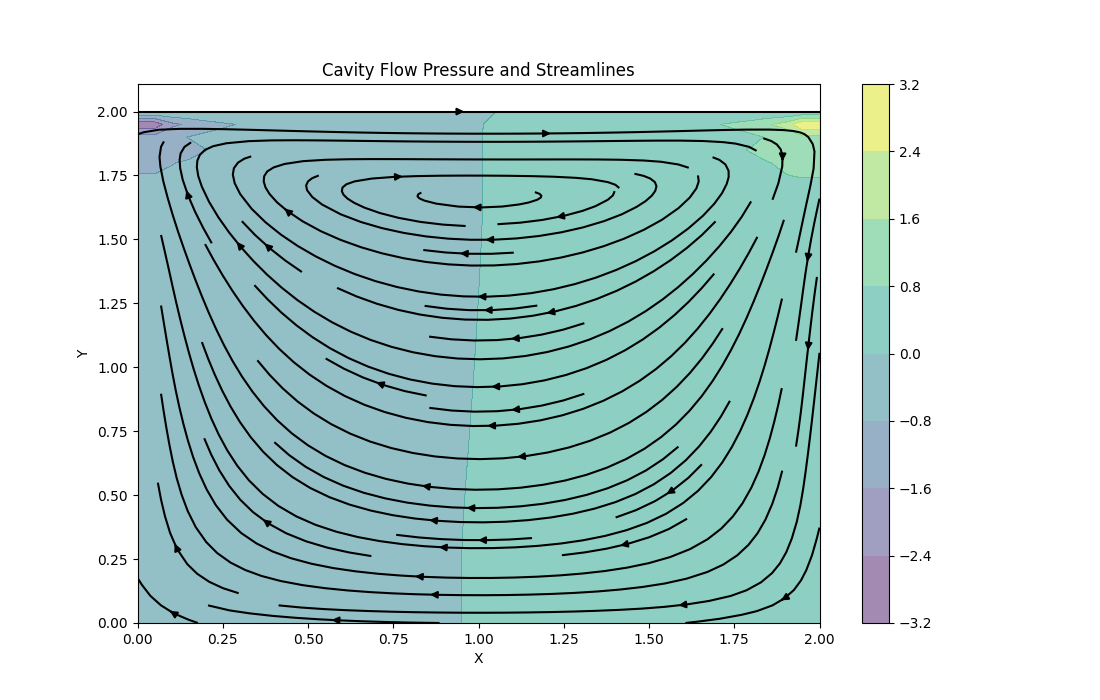
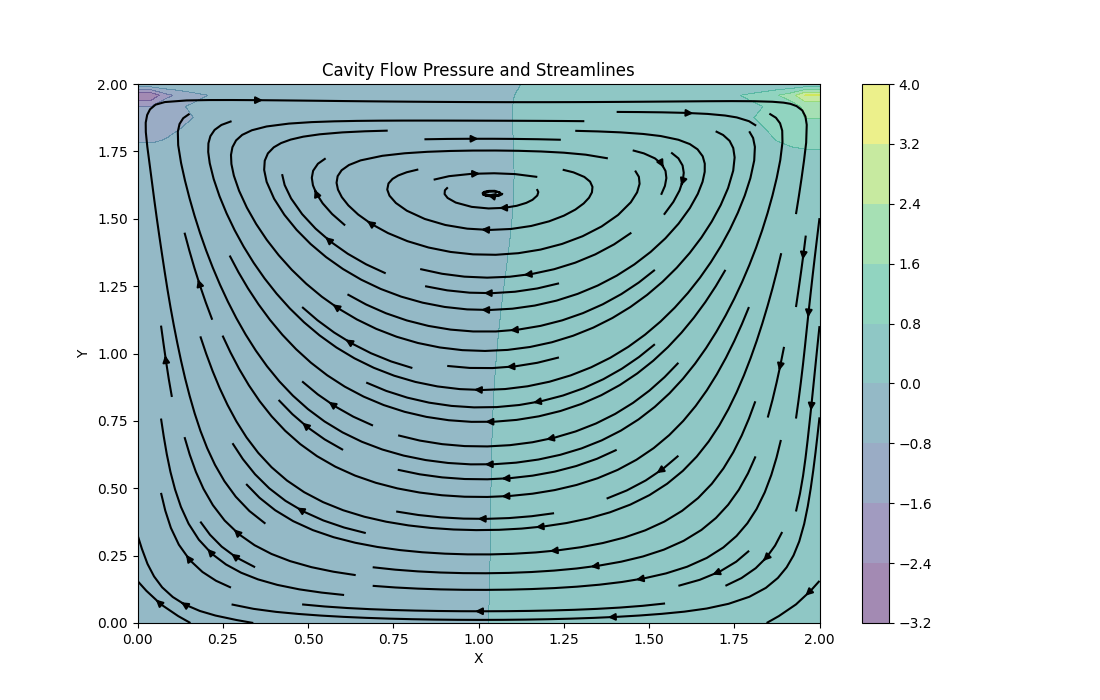
feat: JAX Metal GPU support and dependency refinement
- Split requirements into requirements.txt, requirements-cpu.txt, requirements-metal.txt
- Pin JAX 0.5.0 for jax-metal compatibility in requirements-metal.txt
- Fix JAX code for Metal GPU: disable x64, update @jit decorators for JAX 0.5.0
- Update README installation instructions
- Add benchmark results to simulation READMEs (CPU vs Metal crossover data)
- Implicit: CPU 47.7 fps vs Metal 17.5 fps (CPU wins due to sequential solvers)
- Explicit: Metal wins at 1M+ grid points (1001x1001)

diff --git a/simulations/cavity_flow_implicit/cavity_flow_implicit_jax.py b/simulations/cavity_flow_implicit/cavity_flow_implicit_jax.py
@@ -9,11 +9,17 @@ This version uses JAX for GPU/TPU acceleration.
 """
 
 import jax
-# Enable 64-bit precision for numerical stability in implicit solvers
-jax.config.update("jax_enable_x64", True)
+# Enable 64-bit precision only on backends that support it (not Metal)
+import os as _os
+if _os.environ.get('JAX_PLATFORMS', '') != 'METAL' and 'metal' not in str(jax.devices()).lower():
+    try:
+        jax.config.update("jax_enable_x64", True)
+    except Exception:
+        pass
 
 import jax.numpy as jnp
 from jax import jit, lax
+from functools import partial
 import numpy as np
 import argparse
 import time
@@ -38,7 +44,7 @@ def initialize_fields(nx, ny):
     return u, v, p
 
 
-@jit(static_argnames=['nit_pressure', 'nt_chunk'])
+@partial(jit, static_argnums=(8, 9))
 def simulation_chunk(u, v, p, dt, dx, dy, rho, nu, nit_pressure, nt_chunk):
     """
     Run a chunk of time steps using lax.scan for efficiency.

diff --git a/simulations/cavity_flow_implicit/adi_solver_jax.py b/simulations/cavity_flow_implicit/adi_solver_jax.py
@@ -9,6 +9,7 @@ Uses JAX's vmap and lax.scan for efficient parallel and sequential operations.
 import jax.numpy as jnp
 from jax import jit, vmap
 import jax.lax as lax
+from functools import partial
 from thomas_solver_jax import thomas_algorithm_jax, build_tridiagonal_diffusion_jax
 
 
@@ -35,7 +36,7 @@ def laplacian_2d_jax(u, dx, dy):
     return lap
 
 
-@jit(static_argnames=['bc_type'])
+@partial(jit, static_argnums=(5,))
 def adi_helmholtz_2d_jax(u, rhs, alpha, dx, dy, bc_type='dirichlet'):
     """
     Solve (I - alpha * Laplacian) u = rhs using ADI (JAX version).

diff --git a/simulations/cavity_flow_implicit/fractional_step_jax.py b/simulations/cavity_flow_implicit/fractional_step_jax.py
@@ -6,6 +6,7 @@ This is the JAX version for GPU acceleration.
 
 import jax.numpy as jnp
 from jax import jit
+from functools import partial
 from adi_solver_jax import adi_helmholtz_2d_jax, laplacian_2d_jax
 
 
@@ -84,7 +85,7 @@ def predictor_step_jax(u, v, dt, dx, dy, nu):
     return u_star, v_star
 
 
-@jit(static_argnames=['nit'])
+@partial(jit, static_argnums=(7,))
 def pressure_poisson_jax(p, u_star, v_star, dt, dx, dy, rho, nit=50):
     """
     Solve pressure Poisson equation (JAX version).

diff --git a/README.md b/README.md
@@ -45,17 +45,17 @@ Unconditionally stable implicit scheme using Fractional Step (Projection) method
 git clone https://github.com/yourusername/numerical_fluid_dynamics.git
 cd numerical_fluid_dynamics
 
-# Install dependencies in virtual environment
+# Install JAX CPU environment (recommended for most use cases)
 python -m venv venv
 source venv/bin/activate
-pip install -r requirements.txt
+pip install -r requirements-cpu.txt
 deactivate
 
-# Optional: Install JAX with Metal support (Apple Silicon only)
+# Optional: Install JAX Metal GPU environment (Apple Silicon only)
+# Note: Uses pinned JAX 0.5.0 for jax-metal compatibility
 python -m venv venv_metal
 source venv_metal/bin/activate
-pip install -r requirements.txt
-pip install jax-metal
+pip install -r requirements-metal.txt
 deactivate
 ```
 

diff --git a/simulations/cavity_flow_implicit/README.md b/simulations/cavity_flow_implicit/README.md
@@ -180,7 +180,10 @@ JAX_PLATFORMS=cpu python simulations/cavity_flow_implicit/cavity_flow_implicit_j
 |--------|----------------|-----------|-------------------------|---------|
 | Implicit | NumPy | ~5.8 | 517s | 1x |
 | Implicit | JAX (CPU) | ~47.7 | 63s | **8.2x** |
-| Implicit | JAX (GPU) | TBD | TBD | **>10x** |
+| Implicit | JAX (GPU) | 17.5 | 57s | 3x |
+
+> [!NOTE]
+> **CPU outperforms Metal GPU** for implicit schemes because the ADI solver uses sequential tridiagonal solves (Thomas algorithm) that don't parallelize well on GPUs.
 
 ### Implementation Details
 - **`thomas_solver_jax.py`**: Tridiagonal solver using `jax.lax.scan`

diff --git a/simulations/cavity_flow/README.md b/simulations/cavity_flow/README.md
@@ -235,6 +235,14 @@ Using the $201 \times 201$ grid, we successfully computed stable flow at $Re=100
 > - **NumPy**: ~39s
 > - **JAX (CPU)**: ~11s (**3.5x faster**)
 > - **JAX (Metal)**: ~22s (Slower than CPU due to dispatch overhead)
+>
+> **CPU vs Metal Crossover** (explicit scheme):
+> | Grid Size | CPU (fps) | Metal (fps) | Winner |
+> |-----------|-----------|-------------|--------|
+> | 501×501 | 56.0 | 38.0 | CPU (1.5x) |
+> | 1001×1001 | 8.1 | **8.9** | Metal (1.1x) |
+>
+> Metal GPU only wins at ~1 million+ grid points.
 
 ## Theory
 
